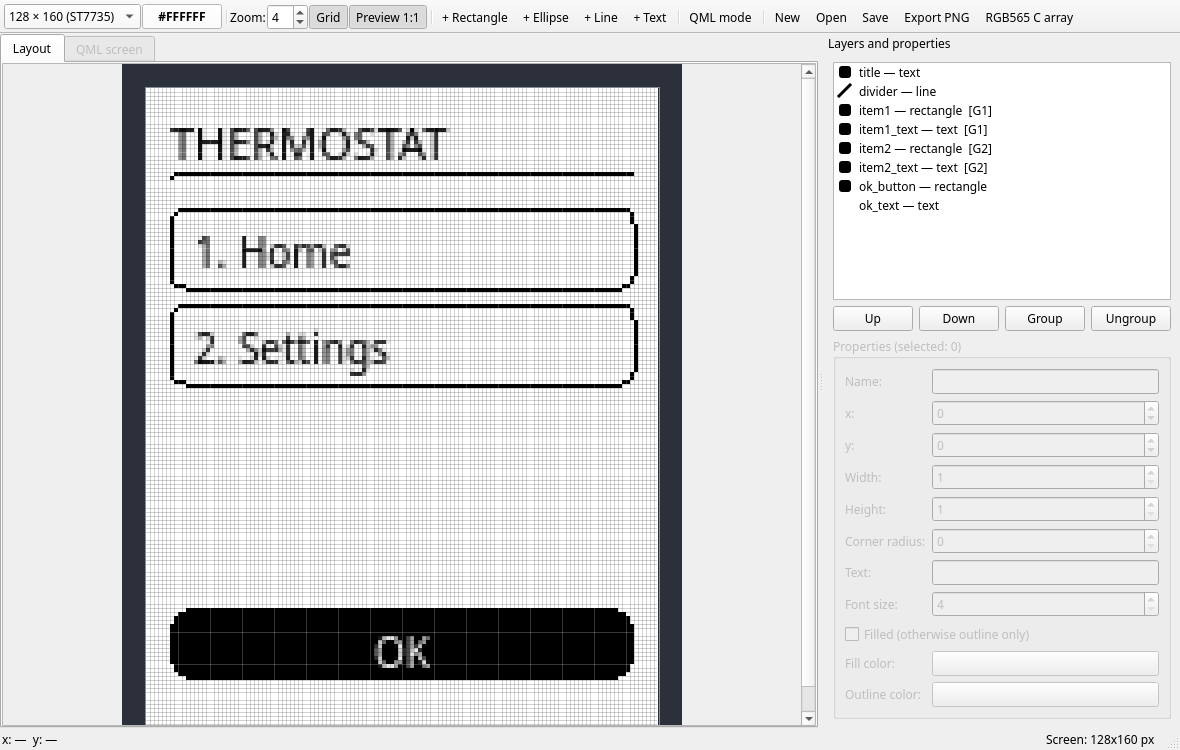
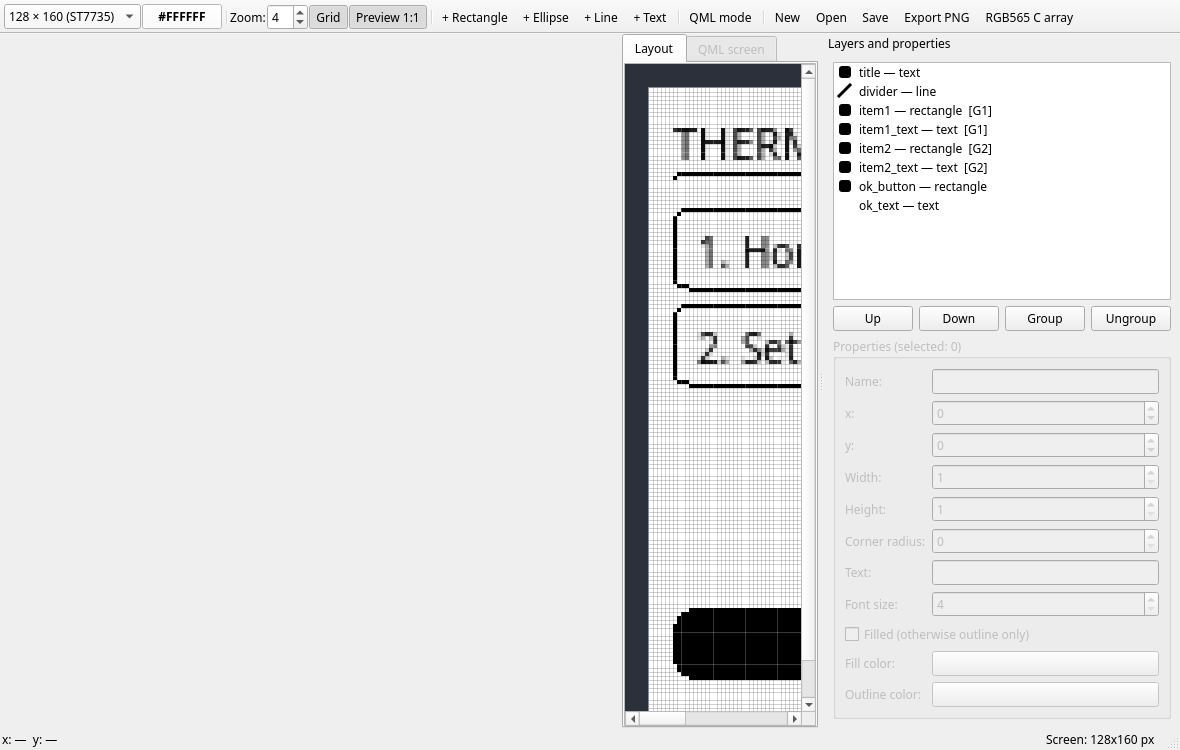
QML previews: pixel-true canvas with grid on Layout tab, smooth fill on QML screen tab

Changed region(s): [[0.0, 0.0613, 0.7017, 0.9813], [0.0, 0.9507, 0.0305, 0.9813]]

diff --git a/src/mainwindow.cpp b/src/mainwindow.cpp
@@ -37,6 +37,7 @@
 #include <QScrollArea>
 #include <QShortcut>
 #include <QSpinBox>
+#include <QStackedWidget>
 #include <QStatusBar>
 #include <QTimer>
 #include <QToolBar>
@@ -66,12 +67,25 @@ void MainWindow::buildUi()
     scroll->setWidgetResizable(false);
     scroll->setAlignment(Qt::AlignCenter);
 
+    m_qmlCanvas = new ScreenCanvas; // raster QML frames with the pixel grid
+    m_qmlCanvas->setScreenSize(m_screenW, m_screenH);
+    m_qmlCanvas->resize(m_qmlCanvas->sizeHint());
+    auto *qmlPixelsScroll = new QScrollArea;
+    qmlPixelsScroll->setWidget(m_qmlCanvas);
+    qmlPixelsScroll->setWidgetResizable(false);
+    qmlPixelsScroll->setAlignment(Qt::AlignCenter);
+
+    m_stack = new QStackedWidget;
+    m_stack->addWidget(scroll);           // page 0: layout editor
+    m_stack->addWidget(qmlPixelsScroll);  // page 1: pixel-true QML view
+
     m_qmlScroll = new QScrollArea;
     m_qmlScroll->setWidgetResizable(false);
     m_qmlScroll->setAlignment(Qt::AlignCenter);
+    m_qmlScroll->viewport()->installEventFilter(this);
 
     m_centralTabs = new QTabWidget;
-    m_centralTabs->addTab(scroll, tr("Layout"));
+    m_centralTabs->addTab(m_stack, tr("Layout"));
     m_centralTabs->addTab(m_qmlScroll, tr("QML screen"));
     m_centralTabs->setTabEnabled(1, false);
     connect(m_centralTabs, &QTabWidget::currentChanged, this, &MainWindow::onPreviewTabChanged);
@@ -289,7 +303,6 @@ void MainWindow::buildUi()
     connect(m_qmlPane, &QmlPane::sourceEdited, this, &MainWindow::markDirty);
 
     m_qmlScroll->setWidget(m_qmlPane->previewWidget());
-    updateQmlPreviewSize();
 
     m_qmlDock = new QDockWidget(tr("QML editor"), this);
     m_qmlDock->setWidget(m_qmlPane);
@@ -874,7 +887,12 @@ void MainWindow::onModelChanged()
 void MainWindow::refreshView()
 {
     m_canvas->update();
-    if (m_centralTabs->currentIndex() == 0) {
+    if (m_qmlMode) {
+        m_lastRender = m_qmlFrame;
+        m_qmlCanvas->setExternalImage(m_qmlFrame);
+        if (m_preview)
+            m_preview->setImage(m_qmlFrame);
+    } else {
         m_lastRender = renderScreen(m_elements, m_screenW, m_screenH, m_bgColor);
         if (m_preview)
             m_preview->setImage(m_lastRender);
@@ -893,10 +911,11 @@ void MainWindow::setQmlMode(bool on)
     m_qmlDock->setVisible(on);
     m_qmlPane->setActive(on);
     m_qmlPane->setScreenSize(m_screenW, m_screenH);
-    updateQmlPreviewSize();
+    m_stack->setCurrentIndex(on ? 1 : 0);
     m_centralTabs->setTabEnabled(1, on);
     // переход в режим заменяет центральное превью на QML-превью
     m_centralTabs->setCurrentIndex(on ? 1 : 0);
+    QTimer::singleShot(0, this, &MainWindow::fitQmlPreview);
 }
 
 void MainWindow::onQmlFrame(const QImage &frame)
@@ -904,17 +923,19 @@ void MainWindow::onQmlFrame(const QImage &frame)
     if (!m_qmlMode)
         return;
     m_qmlFrame = frame;
-    if (m_centralTabs->currentIndex() == 1) {
-        m_lastRender = frame;
-        if (m_preview)
-            m_preview->setImage(frame);
-    }
+    m_lastRender = frame;
+    m_qmlCanvas->setExternalImage(frame);
+    if (m_preview)
+        m_preview->setImage(frame);
 }
 
 void MainWindow::onPreviewTabChanged(int index)
 {
-    m_lastRender = index == 1 ? m_qmlFrame
-                              : renderScreen(m_elements, m_screenW, m_screenH, m_bgColor);
+    Q_UNUSED(index);
+    if (m_qmlMode)
+        m_lastRender = m_qmlFrame;
+    else
+        m_lastRender = renderScreen(m_elements, m_screenW, m_screenH, m_bgColor);
     if (m_preview)
         m_preview->setImage(m_lastRender);
 }
@@ -938,8 +959,9 @@ void MainWindow::applyScreenSize(int width, int height)
     m_screenW = width;
     m_screenH = height;
     m_canvas->setScreenSize(width, height);
+    m_qmlCanvas->setScreenSize(width, height);
     m_qmlPane->setScreenSize(width, height);
-    updateQmlPreviewSize();
+    QTimer::singleShot(0, this, &MainWindow::fitQmlPreview);
     m_sizeLabel->setText(tr("Screen: %1x%2 px").arg(m_screenW).arg(m_screenH));
     syncPresetCombo();
 }
@@ -990,21 +1012,35 @@ void MainWindow::setZoom(int zoom)
     zoom = qBound(1, zoom, 24);
     if (zoom != m_canvas->zoom())
         m_canvas->setZoom(zoom);
-    updateQmlPreviewSize();
+    if (zoom != m_qmlCanvas->zoom())
+        m_qmlCanvas->setZoom(zoom);
     if (m_zoomSpin->value() != zoom)
         m_zoomSpin->setValue(zoom);
 }
 
-void MainWindow::updateQmlPreviewSize()
+void MainWindow::fitQmlPreview()
 {
-    if (m_qmlPane)
-        m_qmlPane->previewWidget()->setFixedSize(m_screenW * m_canvas->zoom(),
-                                                 m_screenH * m_canvas->zoom());
+    if (!m_qmlPane)
+        return;
+    const QSize vp = m_qmlScroll->viewport()->size();
+    if (vp.isEmpty())
+        return;
+    const double s = qMin(double(vp.width()) / m_screenW, double(vp.height()) / m_screenH);
+    m_qmlPane->previewWidget()->setFixedSize(qMax(1, int(m_screenW * s)),
+                                             qMax(1, int(m_screenH * s)));
+}
+
+bool MainWindow::eventFilter(QObject *watched, QEvent *event)
+{
+    if (watched == m_qmlScroll->viewport() && event->type() == QEvent::Resize)
+        fitQmlPreview();
+    return QMainWindow::eventFilter(watched, event);
 }
 
 void MainWindow::toggleGrid(bool on)
 {
     m_canvas->setShowGrid(on);
+    m_qmlCanvas->setShowGrid(on);
 }
 
 void MainWindow::togglePreview(bool on)

diff --git a/src/mainwindow.h b/src/mainwindow.h
@@ -22,6 +22,7 @@ class QLineEdit;
 class QListWidget;
 class QPushButton;
 class QSpinBox;
+class QStackedWidget;
 class QTabWidget;
 class QModelIndex;
 class PreviewWindow;
@@ -43,6 +44,7 @@ public:
 
 protected:
     void closeEvent(QCloseEvent *event) override;
+    bool eventFilter(QObject *watched, QEvent *event) override;
 
 private slots:
     void addElement(ElementKind kind);
@@ -89,7 +91,7 @@ private:
     void syncPresetCombo(); ///< select the combo entry for the current screen size
     void syncCounters();    ///< element-name counters, derived from name suffixes
     void setColorButton(QPushButton *button, const QColor &color);
-    void updateQmlPreviewSize(); ///< resize the live QML preview to screen x zoom
+    void fitQmlPreview(); ///< stretch the live QML preview to the tab viewport
     void moveLayerStep(int dir); ///< move layer up for dir > 0, down for dir < 0
     std::vector<int> selSorted() const;  ///< selected indices, ascending
     int maxGroupId() const;
@@ -108,6 +110,8 @@ private:
     bool m_updating = false;          ///< re-entrancy guard for UI sync
 
     ScreenCanvas *m_canvas = nullptr;     ///< layout editing canvas
+    ScreenCanvas *m_qmlCanvas = nullptr;  ///< raster QML frames with the pixel grid
+    QStackedWidget *m_stack = nullptr;    ///< layout editor / pixel QML view (Layout tab)
     QScrollArea *m_qmlScroll = nullptr;   ///< host of the live QML preview widget
     QTabWidget *m_centralTabs = nullptr;  ///< "Layout" and "QML screen" tabs
     PreviewWindow *m_preview = nullptr;

diff --git a/src/screencanvas.cpp b/src/screencanvas.cpp
@@ -77,6 +77,12 @@ int ScreenCanvas::primaryIndex() const
     return -1;
 }
 
+void ScreenCanvas::setExternalImage(const QImage &img)
+{
+    m_external = img;
+    update();
+}
+
 QImage ScreenCanvas::renderScreenImage() const
 {
     if (!m_elements)
@@ -153,7 +159,12 @@ void ScreenCanvas::paintEvent(QPaintEvent *)
     p.fillRect(rect(), QColor(43, 48, 58));
 
     const QRect sr(Margin, Margin, m_screenW * m_zoom, m_screenH * m_zoom);
-    p.drawImage(sr, renderScreenImage());
+    QImage frame = m_external;
+    if (frame.isNull())
+        frame = renderScreenImage();
+    if (frame.size() != QSize(m_screenW, m_screenH))
+        frame = frame.scaled(m_screenW, m_screenH, Qt::IgnoreAspectRatio, Qt::FastTransformation);
+    p.drawImage(sr, frame);
     p.setPen(QPen(QColor(130, 140, 155), 1));
     p.setBrush(Qt::NoBrush);
     p.drawRect(sr.adjusted(-1, -1, 1, 1));

diff --git a/src/screencanvas.h b/src/screencanvas.h
@@ -34,7 +34,8 @@ public:
     int selectionCount() const { return m_sel.size(); }
     int primaryIndex() const; ///< the only selected element, or -1
 
-    QImage renderScreenImage() const; ///< 1:1 model render
+    void setExternalImage(const QImage &img); ///< draw a raster frame instead of the model
+    QImage renderScreenImage() const;         ///< 1:1 model render
 
     QSize sizeHint() const override;
 
@@ -69,6 +70,7 @@ private:
 
     QSet<int> m_sel;    ///< selected model indices
     int m_primary = -1; ///< index used by the properties panel
+    QImage m_external;  ///< raster frame (QML mode); null renders the model
 
     Drag m_drag = Drag::None;
     int m_corner = 0;
